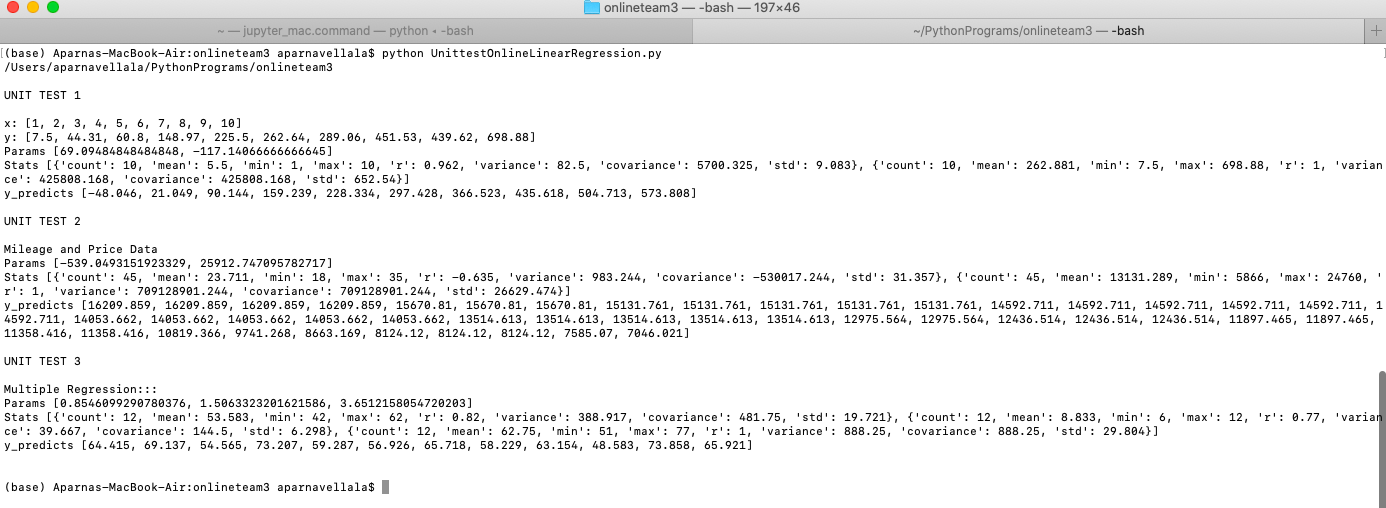
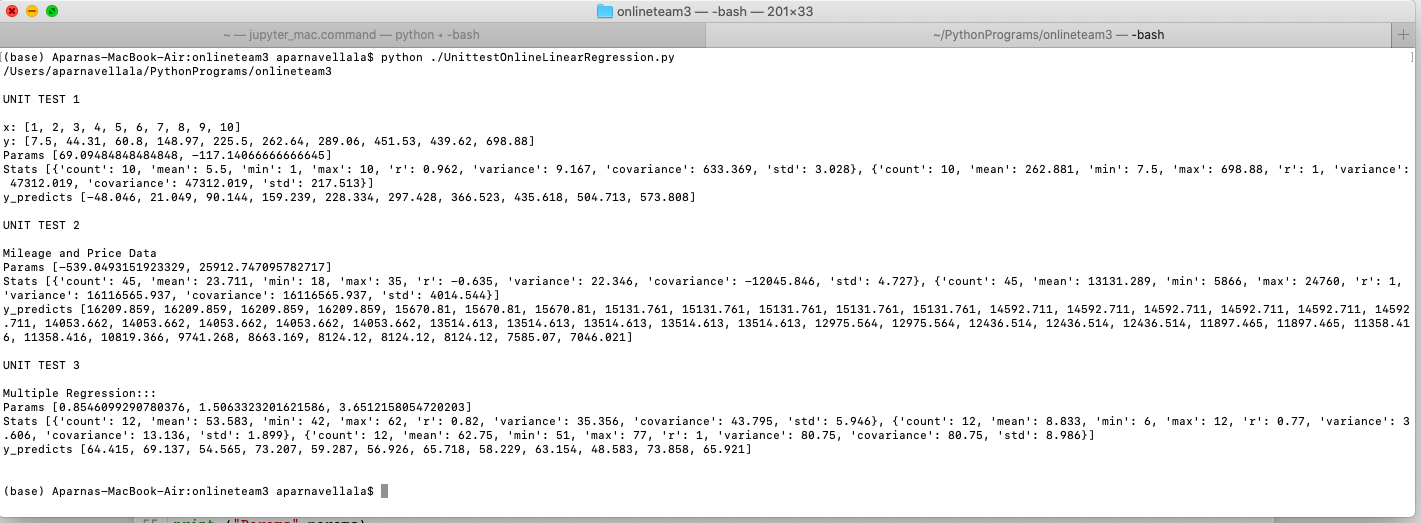
Fix bug
Fixed the covariance and variance issue

Changed region(s): [[0.0, 0.0, 1.0, 1.0], [0.0, 0.1772, 0.062, 0.2067]]

diff --git a/onlineteam3/Team3onlineLinearRegression.py b/onlineteam3/Team3onlineLinearRegression.py
@@ -151,22 +151,26 @@ class Team3onlineLinearRegression:
             corr_coef = round(arg1[in_de_col_name].sum()/ma.sqrt(arg1[sq_in_col_name].sum()*arg1[sq_dep_col_name].sum()),3)
             correlation_coefficients[ind_var] = corr_coef
             #print ("For covariance: in_de_col_name:::",in_de_col_name)
-            SampleSpace = len(arg2[1][i])
+            #print ("For covariance sum_of_squares: arg1[in_de_col_name].sum() :::",arg1[in_de_col_name].sum() )
+            SampleSpace = len(arg1)
+            #print ("For covariance SampleSpace::::",SampleSpace)
             if(SampleSpace <= 1):
                covariance = 0
                variance = 0
             else:
-               covariance = round((arg1[in_de_col_name].sum()/(SampleSpace-1)),3)
-               variance = round((arg1[sq_in_col_name].sum()/(SampleSpace-1)),3)
+               covariance = round(((arg1[in_de_col_name].sum())/(SampleSpace-1)),3)
+               variance = round(((arg1[sq_in_col_name].sum())/(SampleSpace-1)),3)
             all_covariance[ind_var] = covariance
             #print ("For variance: sq_in_col_name:::",sq_in_col_name)
+            #print ("For variance sum_of_squares: arg1[sq_in_col_name].sum() :::",arg1[sq_in_col_name].sum() )
+            #print ("For variance SampleSpace::::",SampleSpace)
             all_variance[ind_var] = variance
             i=i+1
 
         if(SampleSpace <= 1):
             covariance = variance = 0
         else:
-            variance = covariance = round((arg1[sq_dep_col_name].sum()/(SampleSpace-1)),3)
+            variance = covariance = round(((arg1[sq_dep_col_name].sum())/(SampleSpace-1)),3)
         all_variance[arg2[0]] = variance
         all_covariance[arg2[0]] = covariance
         #print("\nCorrelation Coefficients are: ",correlation_coefficients)

diff --git a/onlineteam3/UnittestOnlineLinearRegression.py b/onlineteam3/UnittestOnlineLinearRegression.py
@@ -2,6 +2,7 @@ import sys
 import os
 
 print (os.getcwd())
+
 #print (os.path.abspath(__file__))
 
 #sys.path.insert(0, os.getcwd())
@@ -17,15 +18,19 @@ data = [x]
 model = Team3onlineLinearRegression(data, y1)
 params, stats, y_predicts = model.fit()
 
+print("\nUNIT TEST 1\n")
+print("x:",x)
+print("y:",y1)
 print ("Params",params)
 print ("Stats",stats)
 print ("y_predicts",y_predicts)
 
-
+print("\nUNIT TEST 2\n")
 print ("Mileage and Price Data")
 mileage = [18, 18, 18, 18, 19, 19, 19, 20, 20, 20, 20, 20, 21, 21, 21, 21, 21, 21, 22, 22, 22, 22, 22, 23, 23, 23, 23, 23, 24, 24, 25, 25, 25, 26, 26, 27, 27, 28, 30, 32, 33, 33, 33, 34, 35]
 price = [14525, 13995, 15395, 12267, 12164, 14944, 14799, 11545, 24760, 17257, 14929, 13949, 17879, 11650, 13150, 23300, 13150, 14495, 12495, 16342, 15350, 13195, 17899, 10565, 9955, 14980, 21498, 16145, 13249, 9483, 9599, 10945, 10989, 10855, 10320, 9745, 13945, 13071, 11470, 6599, 8895, 7402, 9410, 5866, 6488]
 data_1 = [mileage]
+
 
 model = Team3onlineLinearRegression(data_1, price)
 params, stats, y_predicts = model.fit()
@@ -35,6 +40,7 @@ print ("Stats",stats)
 print ("y_predicts",y_predicts)
 
 
+print("\nUNIT TEST 3\n")
 print ("Multiple Regression::: ")
 X1 = [57, 59, 49, 62, 51, 50, 55, 48, 52, 42, 61, 57]
 X2 = [8, 10, 6, 11, 8, 7, 10, 9, 10, 6, 12, 9]
@@ -49,4 +55,4 @@ params, stats, y_predicts = model.fit()
 print ("Params",params)
 print ("Stats",stats)
 print ("y_predicts",y_predicts)
-
+print("\n")
